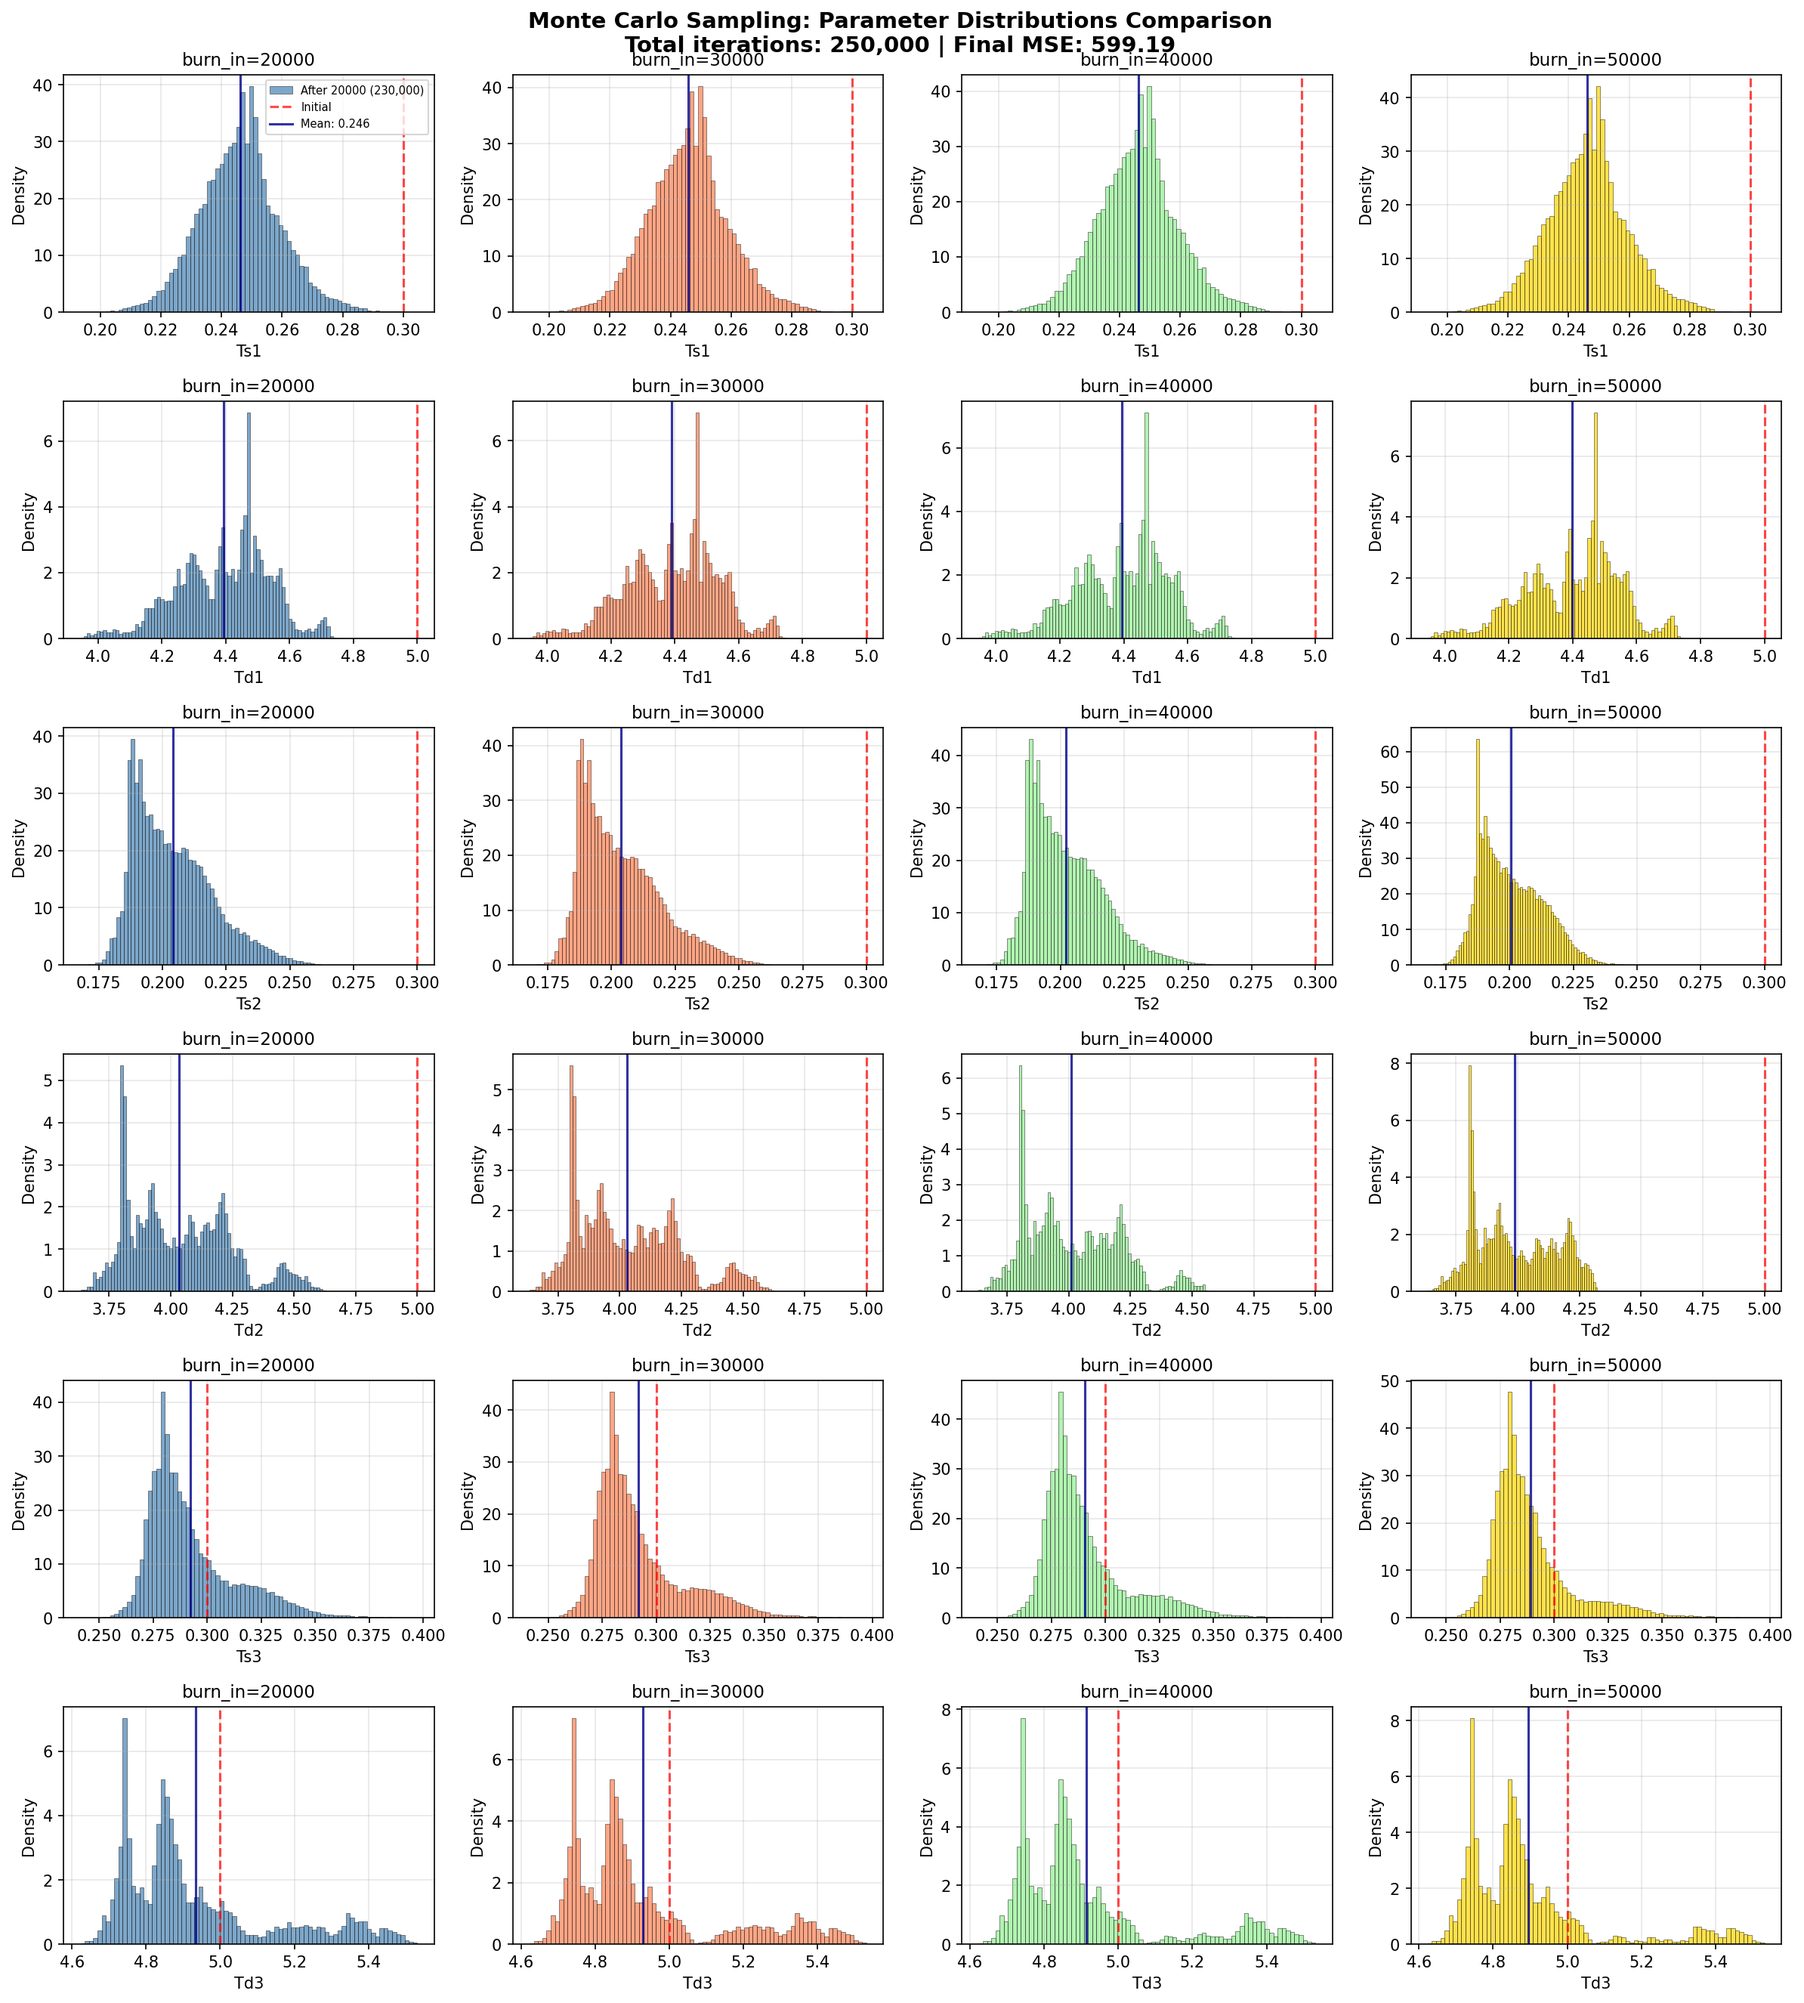
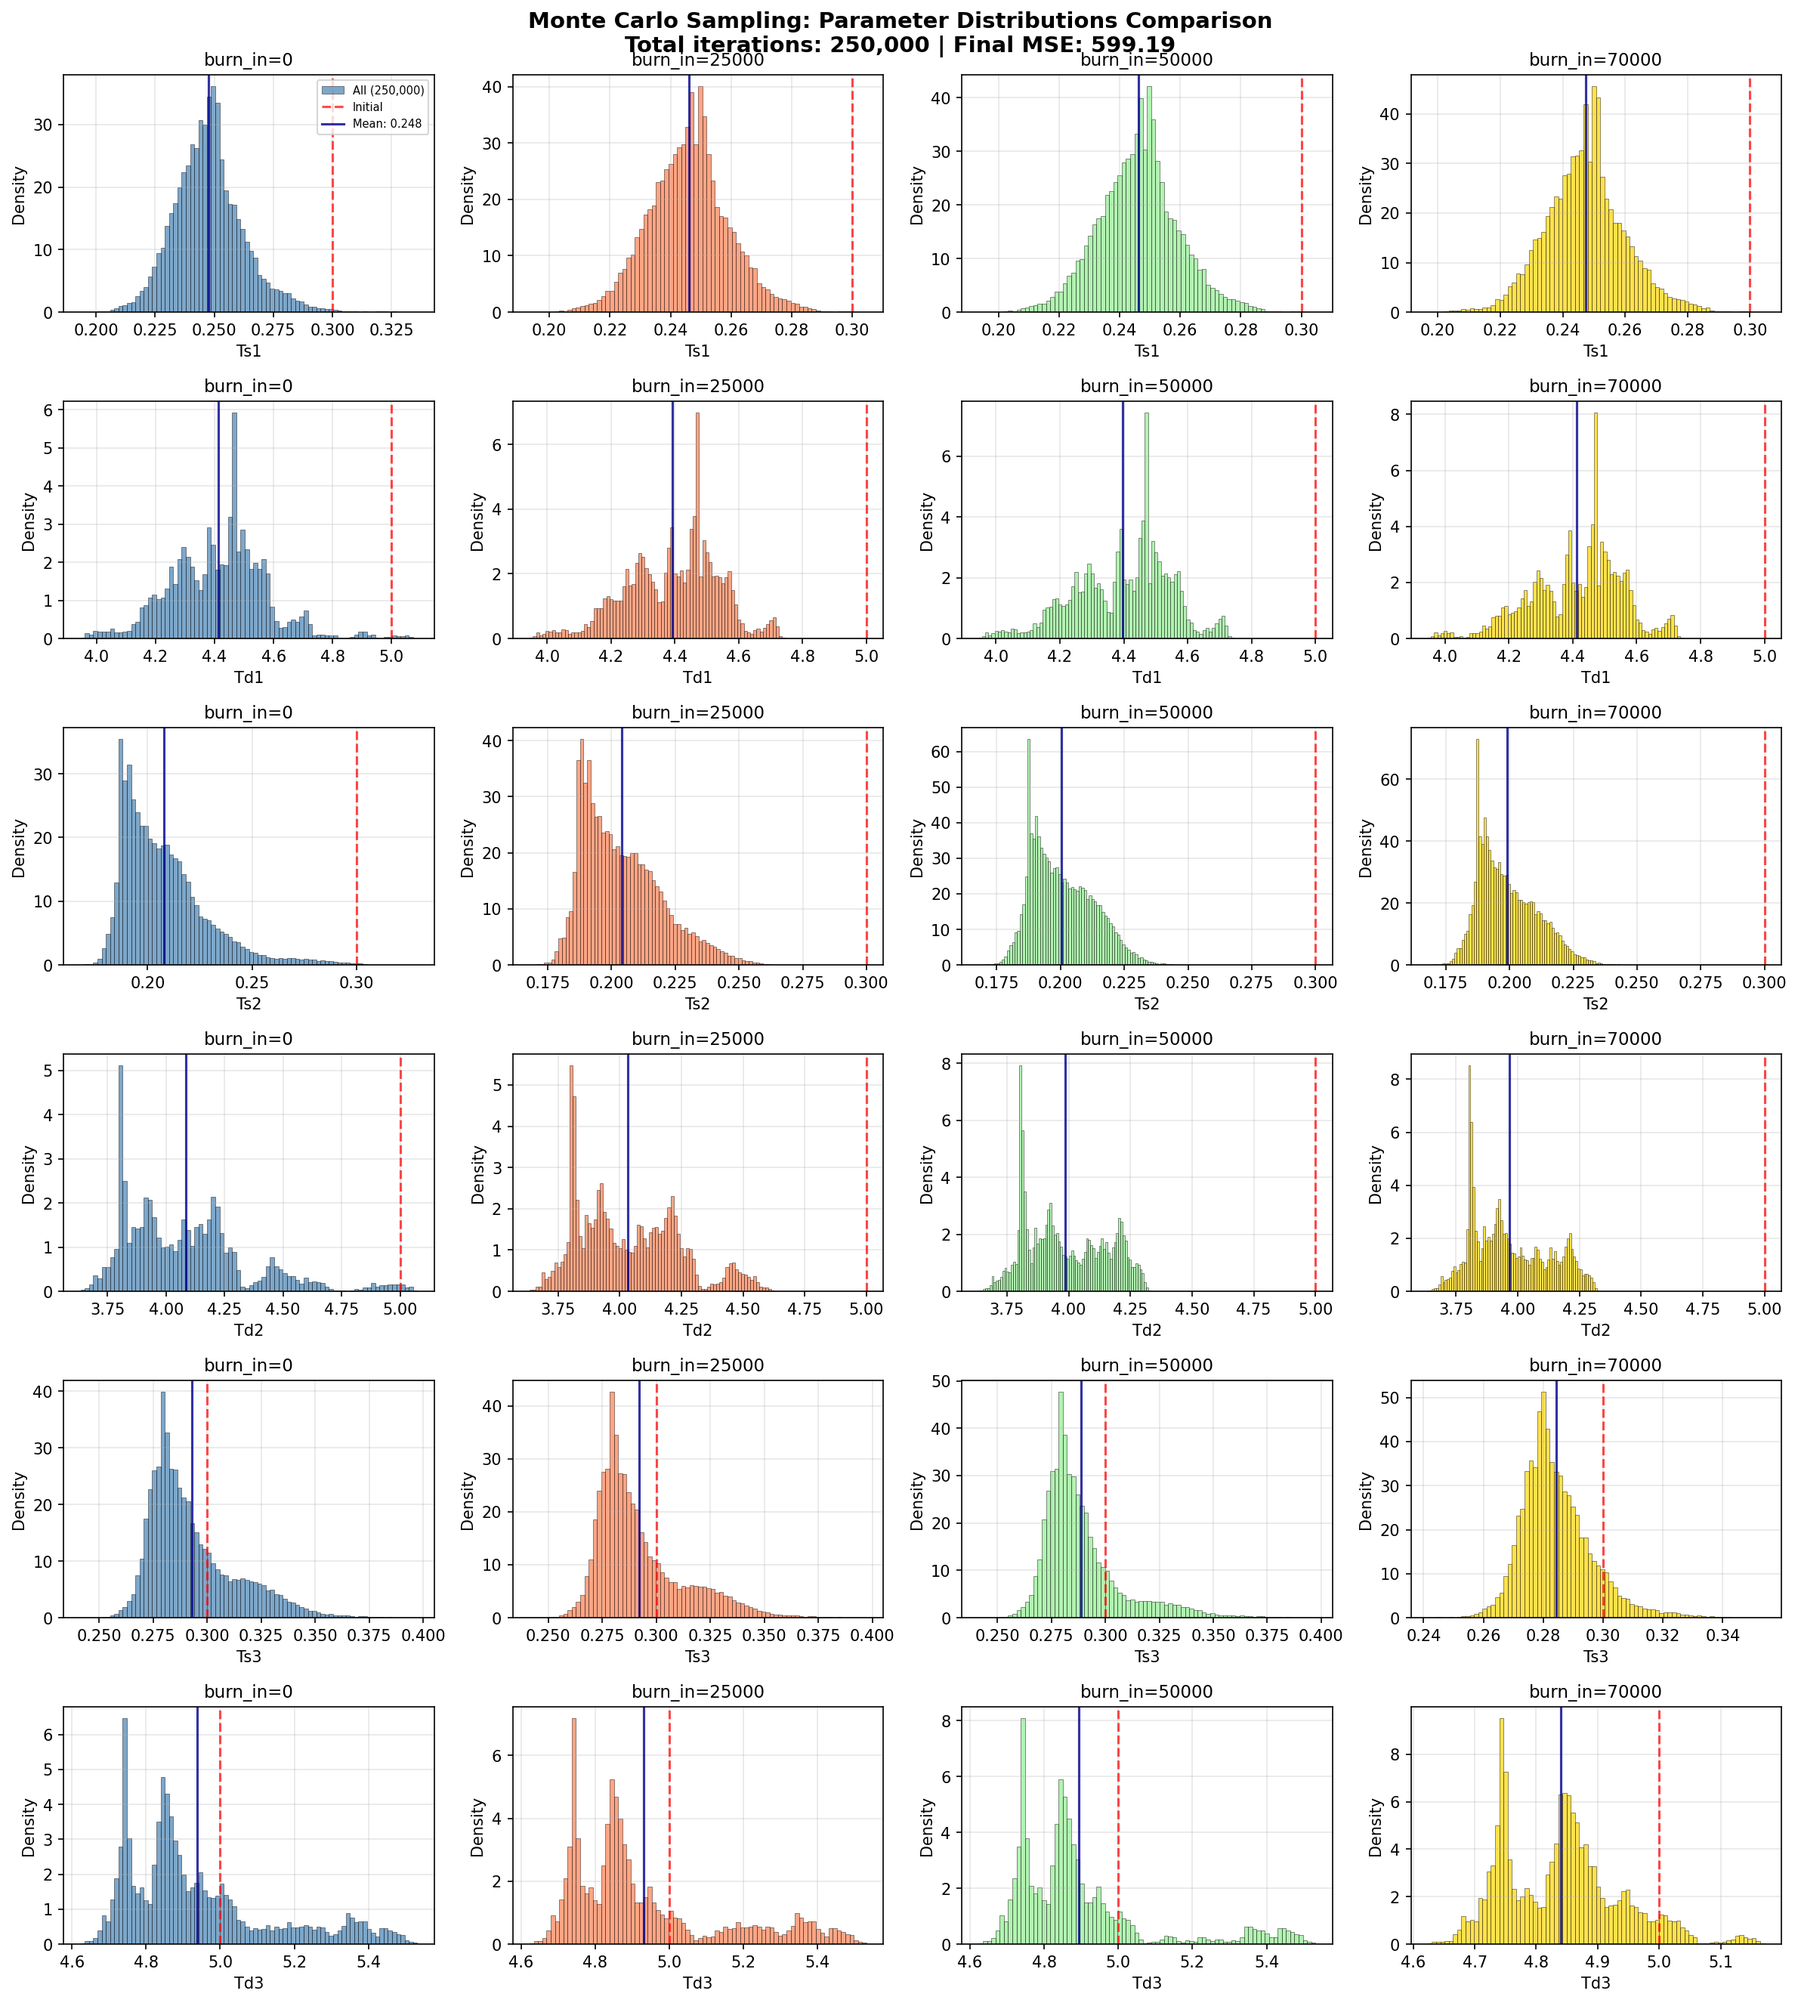
Update burn_in values to [0, 25000, 50000, 70000] and regenerate histogram

diff --git a/plot_mc_histogram.py b/plot_mc_histogram.py
@@ -133,7 +133,7 @@ def main():
     ap.add_argument("--sigma", type=float, default=1e-5, help="Jump standard deviation")
     ap.add_argument("--n_iter", type=int, default=250000, help="Total iterations")
     ap.add_argument("--burn_in_values", type=int, nargs='+', 
-                   default=[0, 5000, 10000, 20000, 30000],
+                   default=[0, 25000, 50000, 70000],
                    help="Burn-in values to compare (0 means no burn-in)")
     ap.add_argument("--outdir", type=str, default="results_burnin_analysis",
                    help="Output directory")
